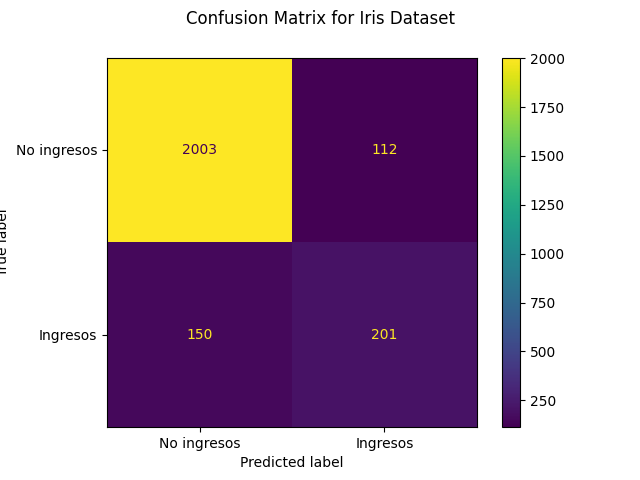
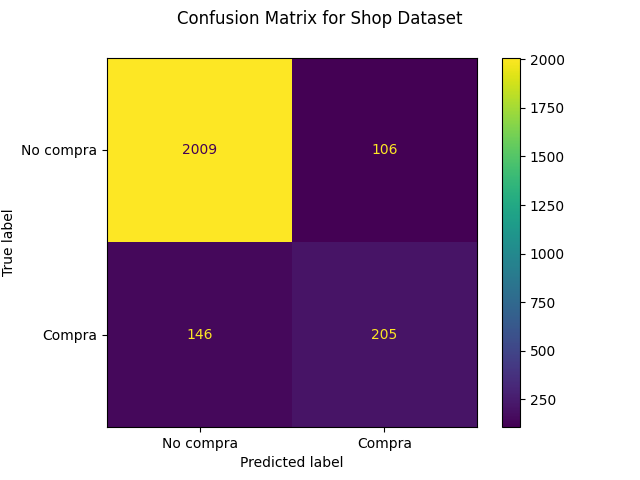
Red neuronal completa

diff --git a/MLP_classifier.py b/MLP_classifier.py
@@ -28,25 +28,19 @@ class MLP_classifier:
     X_trainscaled = sc_X.fit_transform(X_train)
     X_testscaled = sc_X.transform(X_test)
 
-    params = [
+    """params = [
         {
-            'hidden_layer_sizes' : [(18,9),],
-            #(9,9),(9,1),(9,9,1)
-            'activation' : ['tanh',],
-            #'relu',  'identity', 'logistic'
-            'alpha' : [1e-5,],
-            #1e-6, 0.0001, 0.001
-            'solver' : ['adam', ],
-            #'lbfgs',
-            'learning_rate_init' : [ 0.001, ]
-            # 1e-5, 0.0001,  0.01
+            'hidden_layer_sizes' : [(9,9), (9,4), (9,1), (9,9,1)],
+            'activation' : ['tanh', 'relu',  'identity', 'logistic'],
+            'alpha' : [1e-5, 1e-6, 0.0001, 0.001],
+            'solver' : [ 'lbfgs', 'adam', ],
+            'learning_rate_init' : [ 0.001,  1e-5, 0.0001,  0.01]
         }
-    ]
-
+    ]"""
     
 
     #hidden_layer_sizes=(9, 9, 1), activation="relu", random_state=1
-    clf = MLPClassifier(random_state=1, hidden_layer_sizes=(18, 9), activation='tanh', alpha=1e-5, solver='adam', learning_rate_init=0.001).fit(X_trainscaled, y_train)#256,128,64,32
+    clf = MLPClassifier(random_state=1, hidden_layer_sizes=(9, 9), activation='tanh', alpha=1e-5, solver='adam', learning_rate_init=0.001).fit(X_trainscaled, y_train)#256,128,64,32
     
     #grid = GridSearchCV(clf, param_grid=params, cv=5, scoring='accuracy')
     #grid.fit(X_train, y_train)
@@ -54,6 +48,6 @@ class MLP_classifier:
     y_pred = clf.predict(X_testscaled)
     print("\nResult: ", clf.score(X_testscaled, y_test))
 
-    fig = plot_confusion_matrix(clf, X_testscaled, y_test, display_labels=["No ingresos", "Ingresos"])#"Setosa", "Versicolor", "Virginica"
-    fig.figure_.suptitle("Confusion Matrix for Iris Dataset")
+    fig = plot_confusion_matrix(clf, X_testscaled, y_test, display_labels=["No compra", "Compra"])#"Setosa", "Versicolor", "Virginica"
+    fig.figure_.suptitle("Confusion Matrix for Shop Dataset")
     plt.show()

diff --git a/data.py b/data.py
@@ -6,6 +6,7 @@ class load_OSI:
     data = []
     target = []
     count = 0
+    compras = [ 0, 0]
 
     meses = {
         "Jan":1,
@@ -54,6 +55,16 @@ class load_OSI:
                 #feature_names.append(row[17])
                 i = i + 1
                 continue
+            if booleano[row[17]] == 0:
+              if compras[0] == 1908:
+                continue
+              else:
+                compras[0] = compras[0] + 1
+            else:
+              if compras[1] == 1908:
+                continue
+              else:
+                compras[1] = compras[1] + 1
             aux = []
             aux.append(row[2])
             aux.append(row[3])
@@ -67,5 +78,11 @@ class load_OSI:
             #aux.append(row[17])
             data.append(aux)
             target.append(booleano[row[17]])
+            """
+            if booleano[row[17]] == 0:
+              compras[0] = compras[0] + 1
+            else:
+              compras[1] = compras[1] + 1
+            """
             i = i + 1
         count = i

diff --git a/main.py b/main.py
@@ -9,6 +9,8 @@ def main():
     #print(osi.feature_names)
     #print(osi.data)
     #print(osi.target)
+    #print(osi.count)
+    #print(osi.compras)
 
 
 if __name__ == '__main__':
